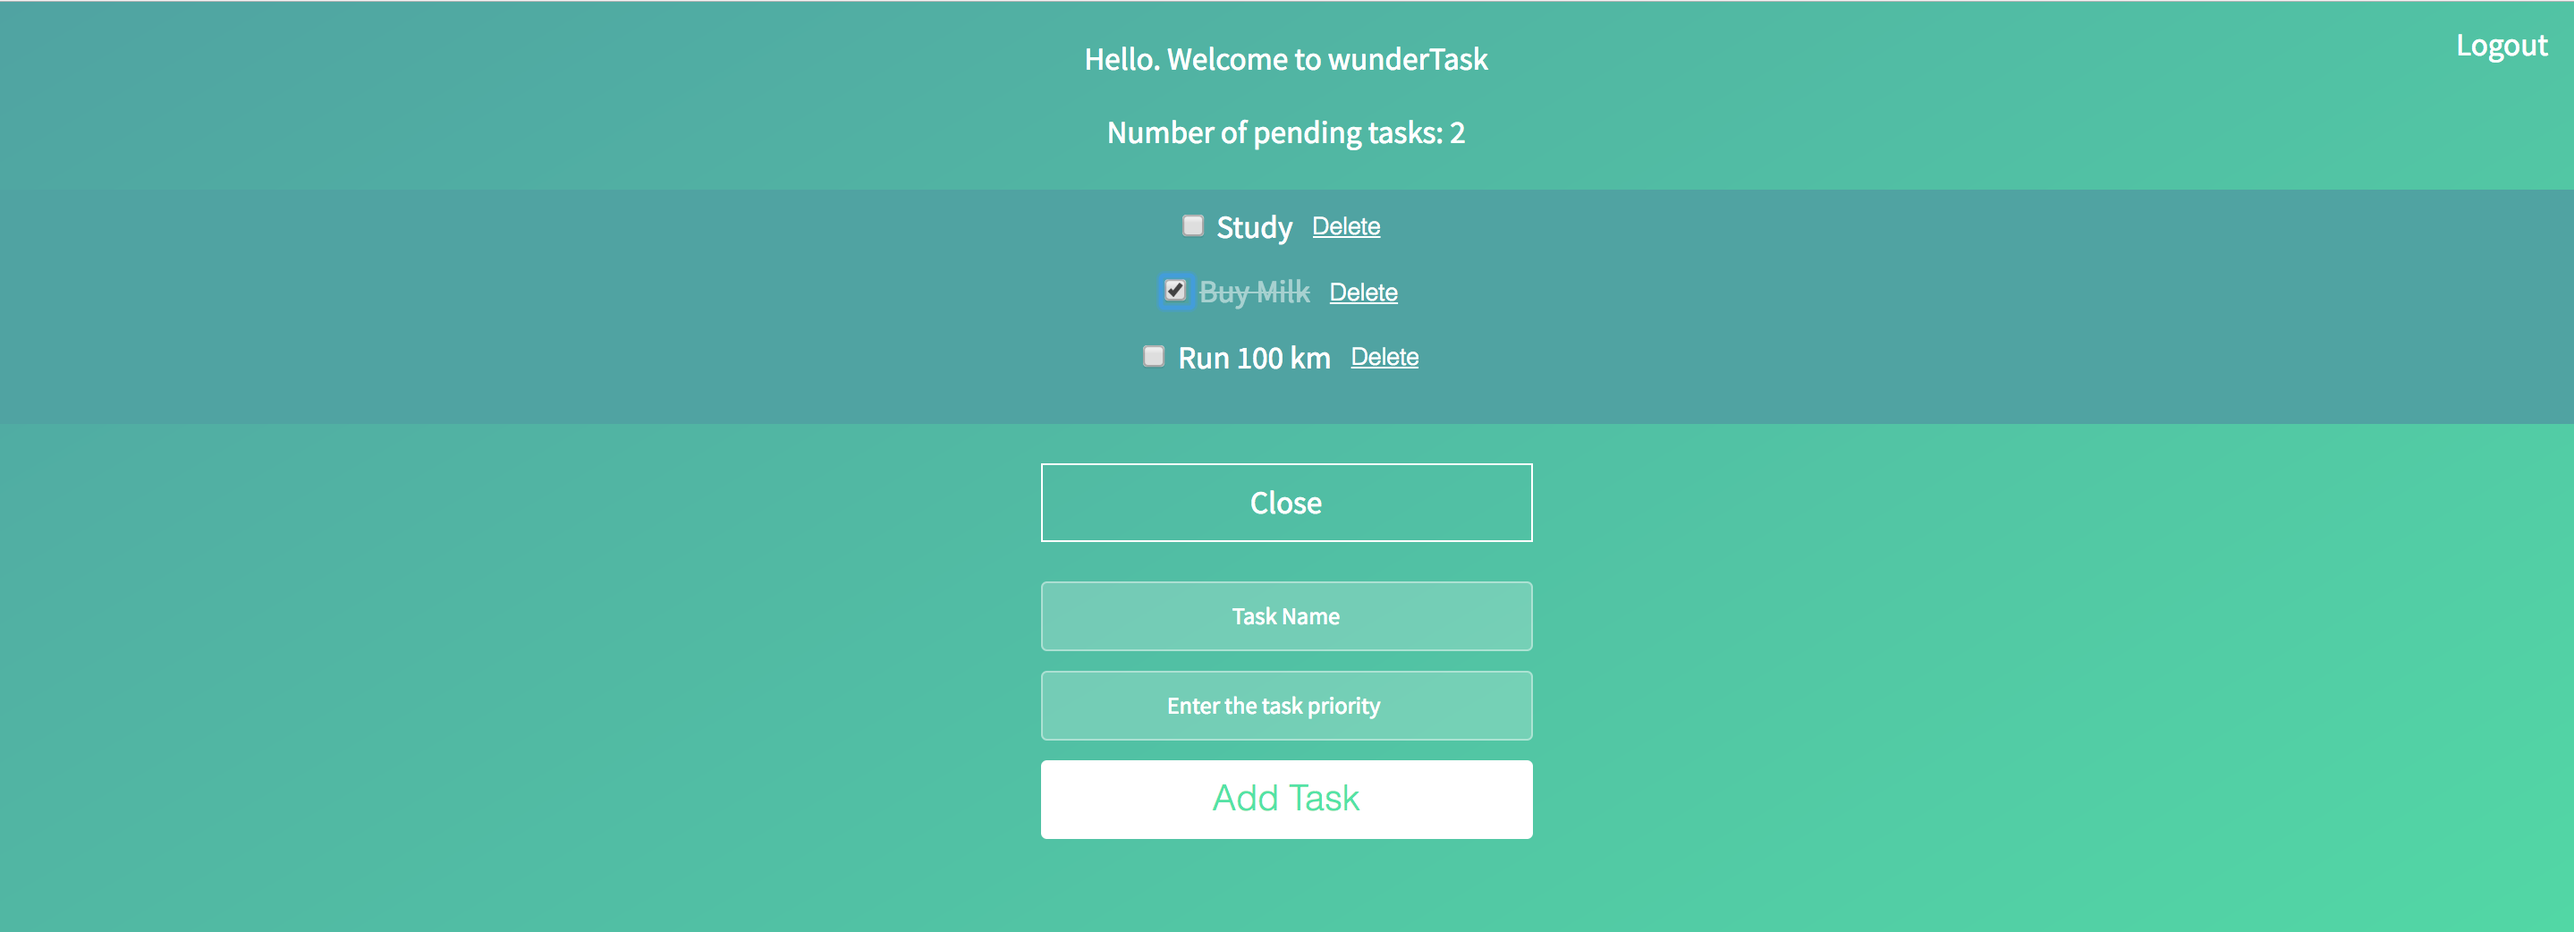
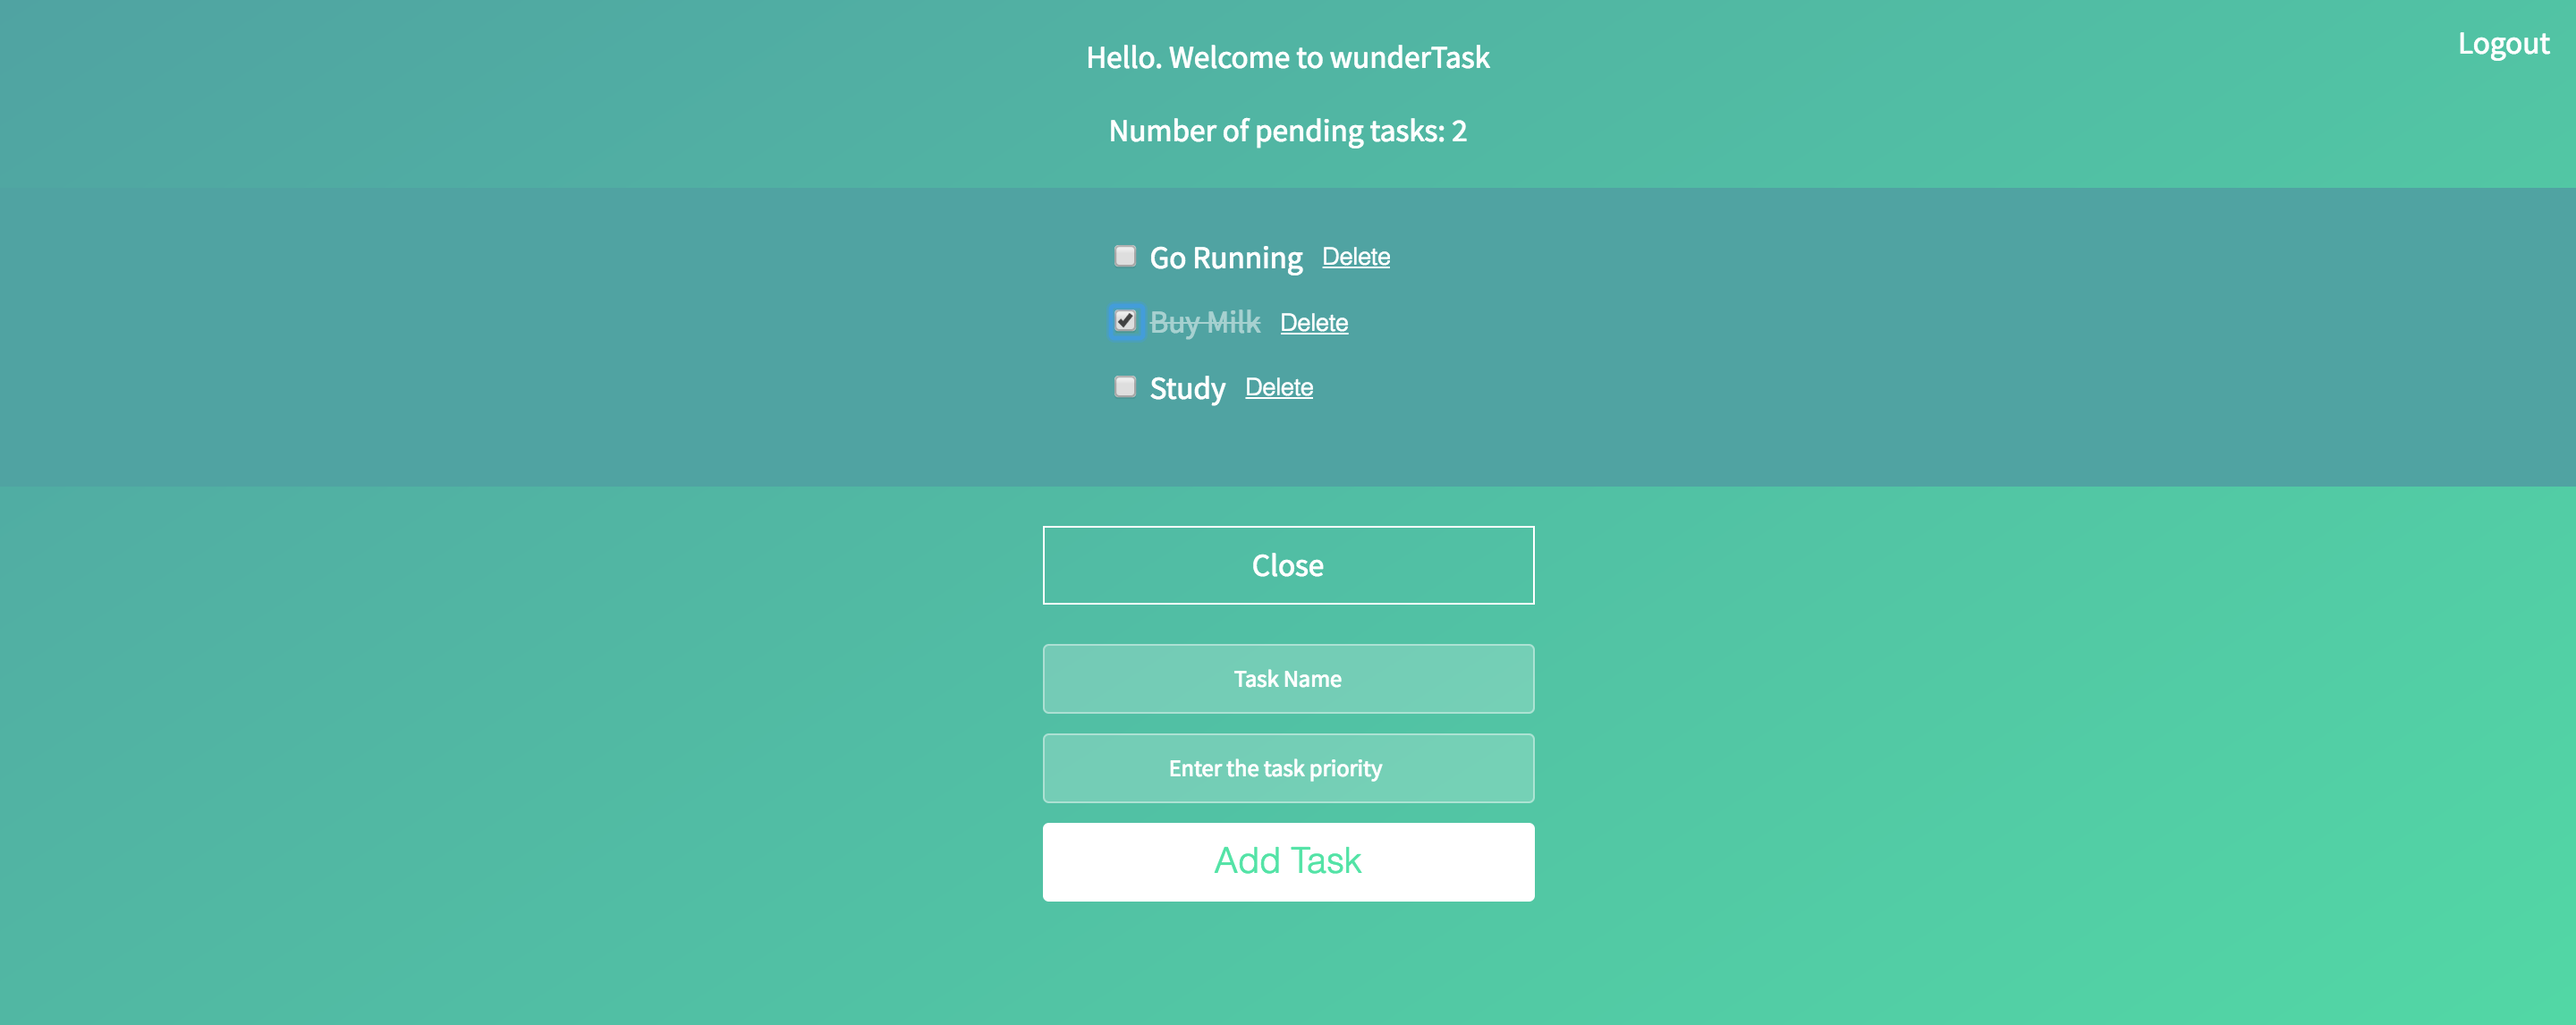
alignment fixed

diff --git a/client/main.css b/client/main.css
@@ -251,9 +251,9 @@ p {
 .alltask {
     display: flex;
     flex-direction: column;
-    align-items: center;
+    align-items: flex-start;
     background: #50a3a2;
-    padding: 10px;
+    padding: 2%;
 }
 
 #partitem {
@@ -283,4 +283,8 @@ p {
 
 #taskform {
     transition: all 0.3s ease-out;
+}
+
+.onetask {
+    margin-left: 43%;
 }
